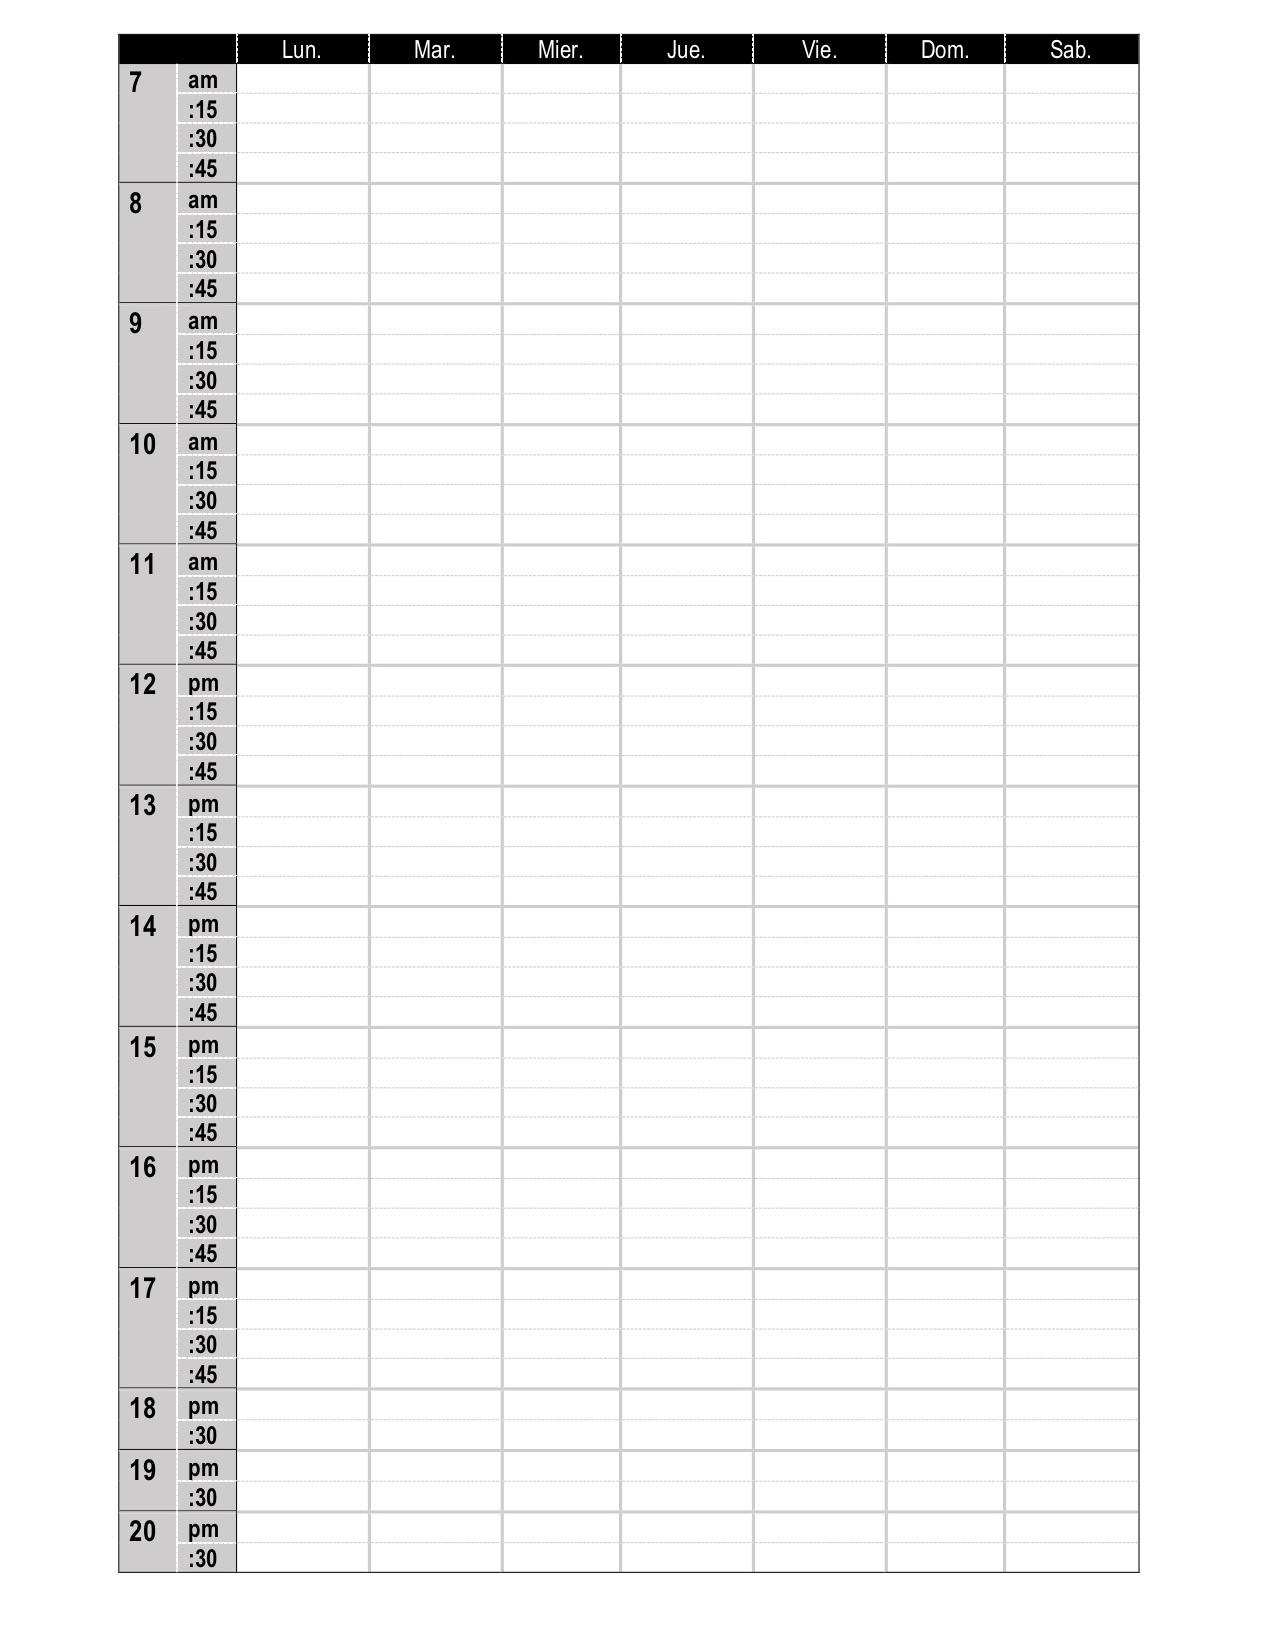
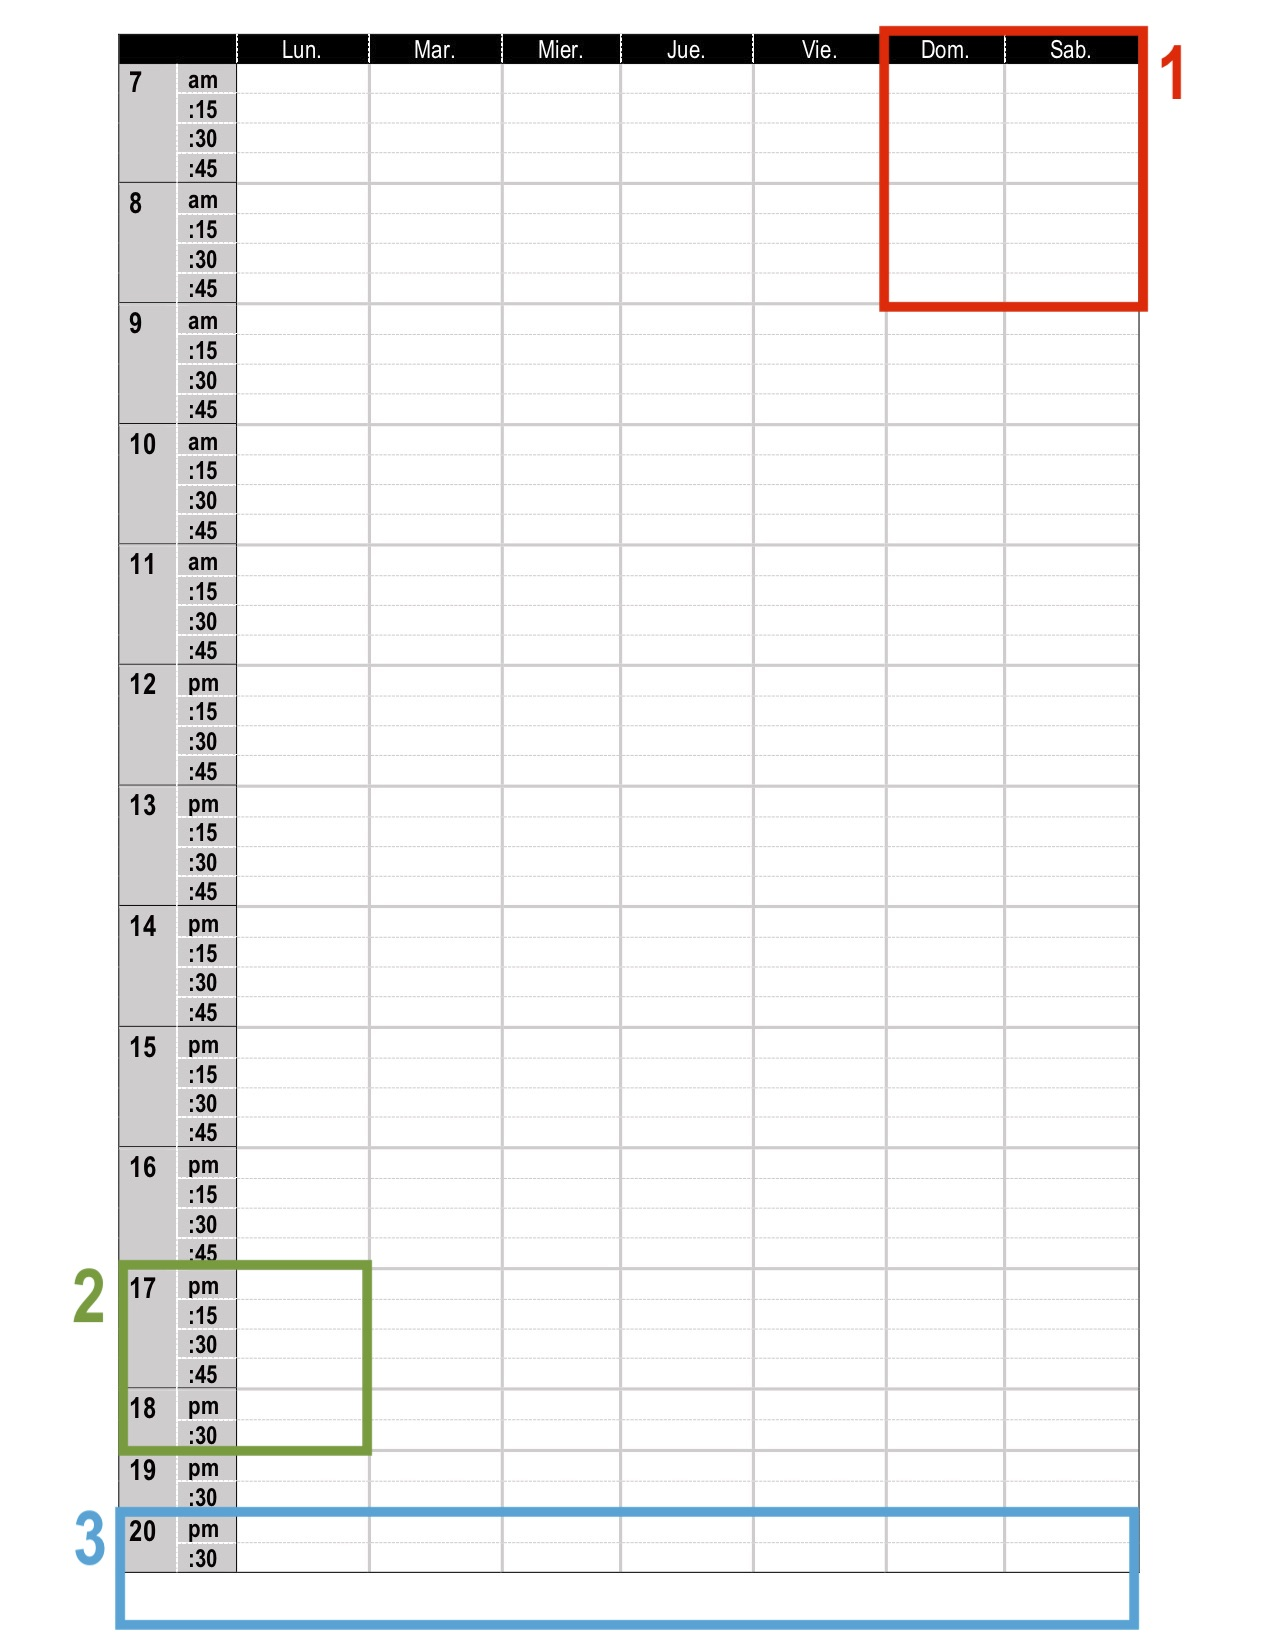
horario-semanal

Changed region(s): [[0.0612, 0.7418, 0.9176, 0.9891], [0.6729, 0.0, 0.9482, 0.1855], [0.7035, 0.1855, 0.8871, 0.2164]]

diff --git a/index.html b/index.html
@@ -147,8 +147,10 @@ background-size: 45%
 --
 
 ###_Solucionar situaciones conflictivas_  
-.pull-left[1. Espacios para citas de **15 min.** de 7:00-17:00 y **30 min.** de 18:00-20:00. 
+.pull-left[1. Espacios para citas de **15 min.** de 7:00-17:00 y **30 min.** de 18:00-20:00.  
+
 2. Sábado y domingo estan **invertidos.**  
+
 3. **Termina a las 20:00** a pesar de que una cita puede extenderse después de las 20:00. 
 
 &lt;br&gt;
@@ -164,7 +166,7 @@ _Brindan la oportunidad de observar cómo las personas afrontan y se adaptan a p
 
 1. Una vez que haya apuntado una cita en el horario, no podrá tacharla.
 2. Avíseme cuando sean las ________horas.
-3. Deje el __________libre. (No programe ninguna cita o tarea ese día.) 
+3. Deje el **miércoles**libre. (No programe ninguna cita o tarea ese día.) 
 4. No conteste a ninguna pregunta del examinador durante esta actividad.
 5. Avise al examinador cuando haya terminado.  
 
@@ -237,8 +239,8 @@ background-size: 95%
  
 ---
 background-image: url(https://github.com/danielesnm/cursoWeekly/blob/master/imagenes/ants%20de%20la%20actividad.png?raw=true), url(https://github.com/danielesnm/cursoWeekly/blob/master/imagenes/durante%20la%20actividad.png?raw=true), url(https://github.com/danielesnm/cursoWeekly/blob/master/imagenes/despues%20de%20la%20actividad.png?raw=true)
-background-position: 10% 10%, 90% 10%, 50% 90%
-background-size: 60%, 60%, 60%
+background-position: 5% 5%, 95% 5%, 50% 95%
+background-size: 40%, 40%, 40%
 # **Material de la terapeuta**
 
 ---
